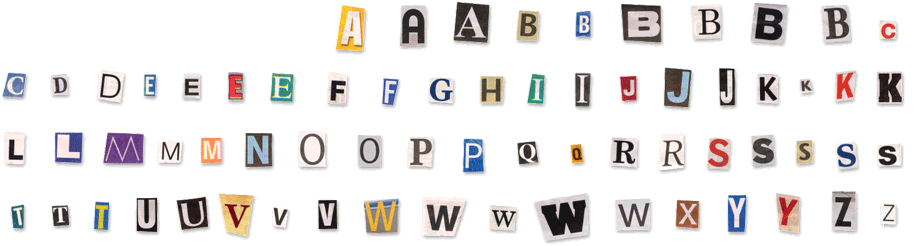
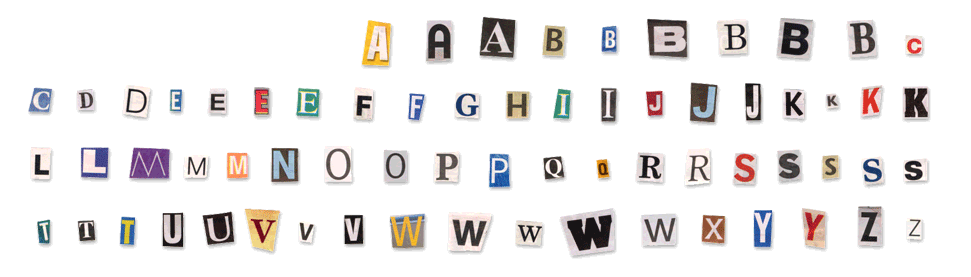
frontpage image nav tweakage

diff --git a/jl/web/style.css b/jl/web/style.css
@@ -561,17 +561,36 @@ form dl {
 .recently-updated { margin: 0 16px; }
 
 
-.box.front ul.nav {
+
+.box.front {
+  width: 971px;
+  height: 277px;
+  background: url("/img/home-az.png") no-repeat top left;
   position: relative;
+}
+
+.box.front span.brag {
+  position: absolute;
+  top: 10px;
+  left: 25px;
+}
+
+.box.front span.youcan{ 
+  position: absolute;
+  top: 40px;
+  left: 25px;
+  font-size: 210%;
+  color: #004a80;
+}
+
+.box.front ul.nav {
   padding: 0px;
   margin: 0px;
-  width: 919px;
-  height: 246px;
-  background: url("/img/home-az.png") no-repeat top left;
   list-style: none;
 }
 
 .box.front li {
+  position: relative;
   list-style: none;
   padding: 0px;
   margin: 0px;
@@ -587,15 +606,15 @@ form dl {
 }
 .box.front .nav a { outline: none; }
 
-.box.front .nav a.articles { left: 310px; top: 3px; background-position: 0 -189px; }
+.box.front .nav a.articles { left: 340px; top: 11px; background-position: 0 -189px; }
 .box.front .nav a.articles:hover { background-position: 0 0; }
-.box.front .nav a.link { left: 95px; top: 115px; background-position: 0 -568px; } 
+.box.front .nav a.link { left: 125px; top: 125px; background-position: 0 -568px; } 
 .box.front .nav a.link:hover { background-position: 0 -378px; } 
-.box.front .nav a.rate { left: 480px; top: 117px; background-position: 0 -953px; } 
+.box.front .nav a.rate { left: 510px; top: 127px; background-position: 0 -953px; } 
 .box.front .nav a.rate:hover { background-position: 0 -758px; } 
-.box.front .nav a.search { left: 650px; top: 20px; background-position: 0 -1336px; } 
+.box.front .nav a.search { left: 680px; top: 30px; background-position: 0 -1336px; } 
 .box.front .nav a.search:hover { background-position: 0 -1148px; } 
-.box.front .nav a.subjects { left: 785px; top: 110px;  background-position: 0 -1712px; } 
+.box.front .nav a.subjects { left: 815px; top: 120px;  background-position: 0 -1712px; } 
 .box.front .nav a.subjects:hover { background-position: 0 -1524px; } 
 
 

diff --git a/jl/templates/frontpage.tpl.php b/jl/templates/frontpage.tpl.php
@@ -18,6 +18,8 @@
 <div class="main front-page">
 
 <div class="box front">
+  <span class="brag">140,000 people used journa<i>listed</i> last month!</span>
+  <span class="youcan">At journa<i>listed</i> you can:</span>
   <ul class="nav">
    <li><a class="articles" href="#">articles</a></li>
    <li><a class="link" href="#">link</a></li>
